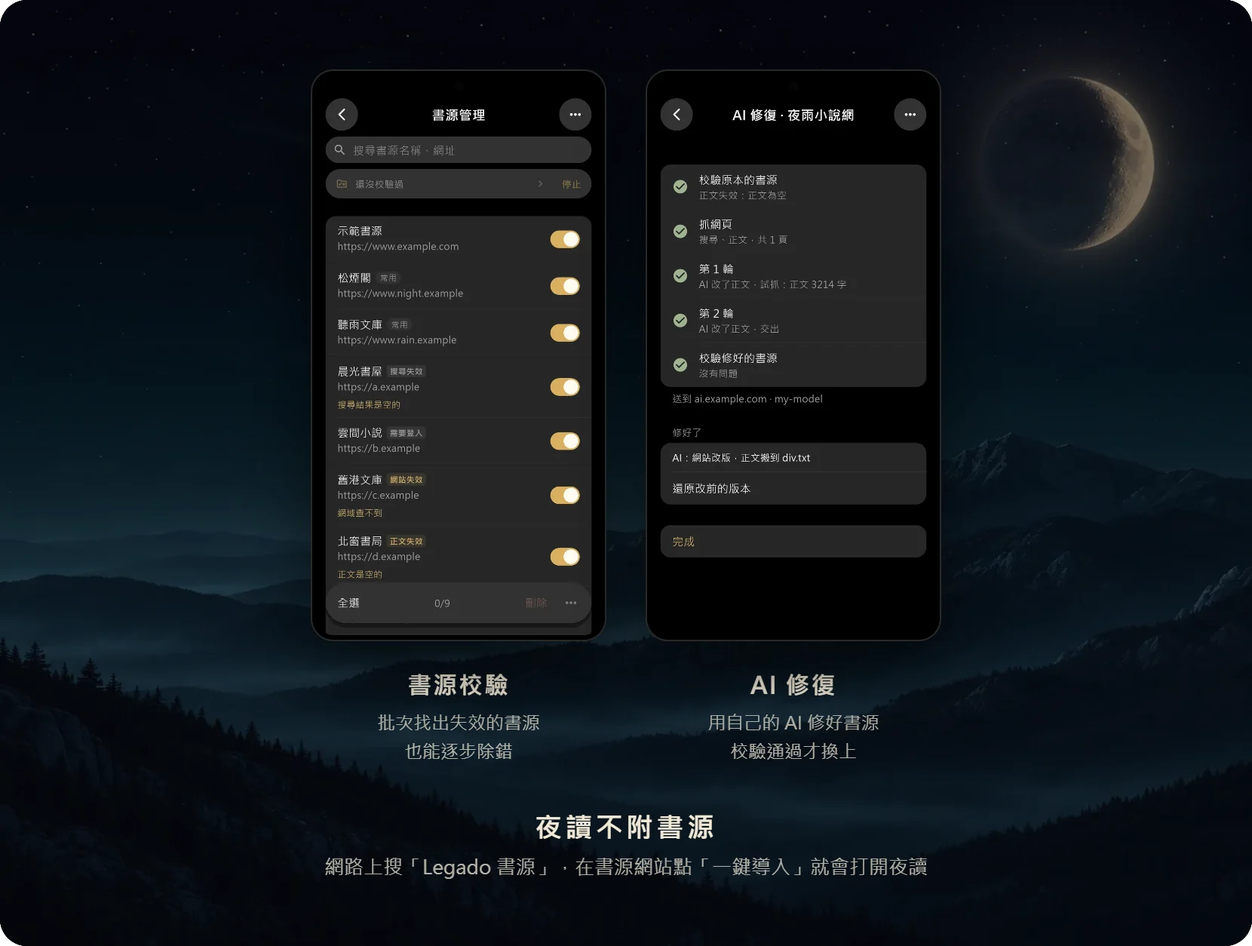
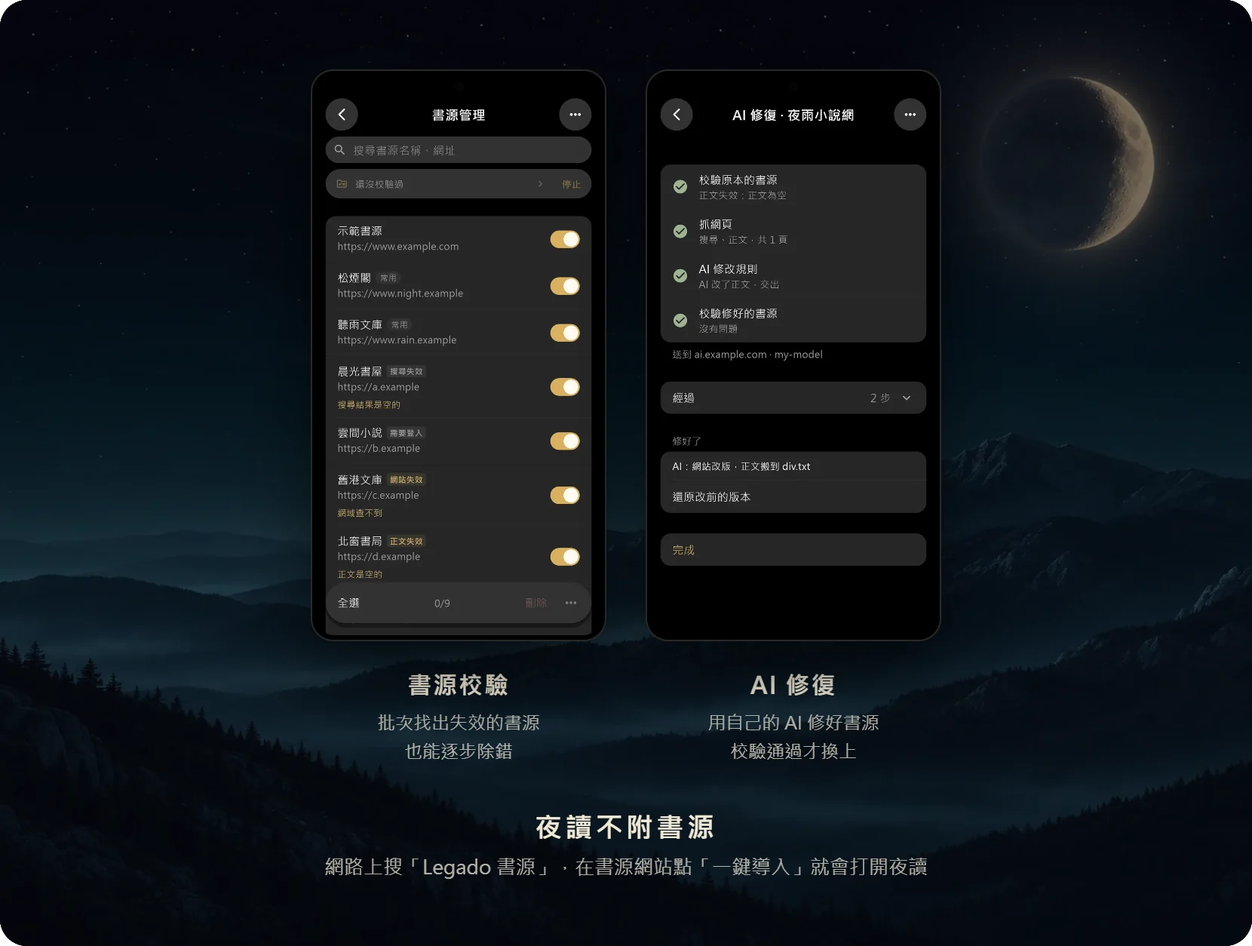
feat(ai): 經過卡片補測試、規格與 ADR，重拍修復頁的網站截圖
- 修復頁測試：展開「經過」後清單變長、結果捲出測試視窗，結果改在展開前看。
- 補單一書源 AI 修復的通知內文測試：校驗時寫段名、AI 那一輪寫「AI 回覆中…」，
  不寫「第 N 輪」（紀錄照寫輪次）。
- docs/design/screens.md：AI 修書源改成固定四段＋經過（記下 2026-11-16 選丁、
  否決甲乙丙），剪貼簿照舊一步一列；整批「正在修」副標、AI 找書進行中／暫停／
  結果、兩種通知內文照現在的樣子寫。
- ADR 0054「一次修一個」改寫，考慮過的做法加「一輪一列」；ADR 0060 背景工作與
  過去的找書照改（報告沒有經過：每一輪沒存進資料庫）。
- 網站 ai-repair 截圖與 README 書源卡片重拍（原本拍到「第 1 輪」「第 2 輪」）。
- 交接做完，刪掉 HANDOFF.md。

驗證：tool/flutter_test.sh 跑 ai_find_page、ai_repair_page、source_repair_page、
repair_runs、ai_find_session、ai_repair_session、source_repair_batch、
ai_find_report_skeleton、background_work、ai_find_sync 共十個檔，全過。

Changed region(s): [[0.5223, 0.2799, 0.7373, 0.622]]

diff --git a/test/features/source_manager/repair_runs_test.dart b/test/features/source_manager/repair_runs_test.dart
@@ -171,6 +171,65 @@ void main() {
     expect(run.status.text, '正在結束…');
   });
 
+  test('a single repair notification says what is being done, not which '
+      'round', () async {
+    final checking = Completer<void>();
+    final answering = Completer<void>();
+    final session = AiRepairSession(
+      source: _s('one'),
+      service: _service,
+      check: (source, _) async {
+        await checking.future;
+        return SourceCheckIsolateResult(
+          stage: 'content',
+          message: '正文為空',
+          isHealthy: false,
+          updatedSourceJson: source.toJson(),
+          logs: const [],
+        );
+      },
+      probe: (_, _, {start}) async =>
+          const SourceProbeReport(logs: [], requests: []),
+      ask: (_, _) async {
+        await answering.future;
+        return fakeAiReply(
+          jsonEncode({
+            'action': 'give_up',
+            'why': 'site_gone',
+            'reason': '網站關了',
+          }),
+        );
+      },
+      secrets: (_) async => const {},
+    );
+    final run = SingleRepairRun(
+      session,
+      progress: _MemoryFile(),
+      work: work,
+      navigator: () => null,
+    );
+    expect(run.status.title, 'AI 修復 · one');
+    expect(run.status.text, '準備中…');
+
+    final done = run.run();
+    for (var i = 0; i < 20 && session.job.steps.isEmpty; i++) {
+      await _flush();
+    }
+    expect(run.status.text, '校驗原本的書源');
+
+    checking.complete();
+    for (var i = 0; i < 20 && session.job.steps.length < 3; i++) {
+      await _flush();
+    }
+    expect(session.job.steps.last.title, '第 1 輪', reason: '紀錄照寫輪次');
+    expect(run.status.text, 'AI 回覆中…');
+
+    answering.complete();
+    await done;
+    run.disposeWork();
+    run.dispose();
+  });
+
   test(
     'a single repair records a confirmed unstable site as removable',
     () async {

diff --git a/test/features/source_manager/ai_repair_page_test.dart b/test/features/source_manager/ai_repair_page_test.dart
@@ -103,14 +103,16 @@ void main() {
     expect(find.text('校驗修好的書源'), findsOneWidget);
     expect(find.text('1 步'), findsOneWidget);
     expect(find.text('AI 改了正文，交出'), findsOneWidget);
-    await tester.tap(find.text('經過'));
-    await tester.pump();
-    expect(find.text('AI 改了正文，交出'), findsNWidgets(2));
     expect(find.text('修好了'), findsOneWidget);
     expect(find.text('AI：正文在 div.txt'), findsOneWidget);
     expect(find.text('還原改前的版本'), findsOneWidget);
     expect(find.text('完成'), findsOneWidget);
     expect(find.text('結束'), findsNothing);
+
+    // 展開後一步一列，清單變長、下面的結果捲出畫面，所以結果先看。
+    await tester.tap(find.text('經過'));
+    await tester.pump();
+    expect(find.text('AI 改了正文，交出'), findsNWidgets(2));
   });
 
   testWidgets('the clipboard way waits for a paste on the same page', (

diff --git a/docs/design/screens.md b/docs/design/screens.md
@@ -64,13 +64,17 @@
 
 ## AI 修書源（ADR 0054）
 
-使用者 2026-11-09 在三個候選裡選了「推一頁、步驟一列一列」；否決置中進度框（幾分鐘不能操作、看不到前幾輪）與背景跑加膠囊（修的時候可能正在編輯或校驗同一個書源）。頁面關了照修，進度在通知欄（見下面「背景工作」）。
+使用者 2026-11-09 在三個候選裡選了「推一頁」；否決置中進度框（幾分鐘不能操作、看不到前幾輪）與背景跑加膠囊（修的時候可能正在編輯或校驗同一個書源）。頁面關了照修，進度在通知欄（見下面「背景工作」）。
+
+進行中只寫現在在做的事，做過的步收在預設收起的「經過」卡片（使用者 2026-11-16 在候選圖與動畫上選了丁，AI 找書同一套）：原本「第 N 輪」一列一列，頁面一直加長，跑的時候用不到那麼多。否決甲（只留一列現在在做的事，看不到前幾步）、乙（甲加累計數字：搜了幾次、看過幾本）、丙（只留最近三步，三列一直在跳）。
+
+- **經過**：一張卡片，收起時一列「經過」，右邊「N 步」與上下箭頭（同目錄的分卷列）；點了展開，照先後一步一列，圖示同修復頁，標題是那一步做的事（同下面「AI 修改規則」的副標，最多三行），不寫「第 N 輪」；重新開始的那步標題「重新開始」、副標是原因。現在在做的那一步不放進來。每次進頁面都是收起的，不記。還沒有做完的步時不畫這張。
 
 - **入口**：長按選單在「除錯書源」下面加「AI 修復」，下面是「還原 AI 修改前」（沒有改前版本時灰掉）；多選工具列「⋯」加「AI 修復選中」（選一個時是這一頁，選幾個時是「修復異常書源」那一頁）；頁首「更多」的「校驗與修復」裡，「清除校驗標記」下面是「修復異常書源」（有帶「異常」標記的書源才能按）與「AI 服務設定」（快速入口）。書源編輯不放（編輯中的改動還沒存）。
 - **沒設定 AI 服務**：提示框「AI 修復「書源名」」，訊息「還沒設定 AI 服務。」，按鈕直排「設定 AI 服務｜複製給 AI｜取消」；一批時沒有「複製給 AI」。
-- **修復頁**：頁首「AI 修復 · 書源名」，右側「⋯」：AI 服務設定、複製摘要、分享完整紀錄（兩份的內容見 ADR 0054「修復紀錄」；還沒開始時灰掉）。一張分組卡片，一步一列：圖示＋標題＋一行副標。圖示：做完是綠色勾、做著是轉圈、失敗是紅色叉、還沒開始是空心圓。步驟依序是「校驗原本的書源」（副標是校驗結果）、「抓網頁」（副標「搜尋、詳情、目錄、正文，共 N 頁」）、「第 N 輪」（副標「AI 改了哪些規則，試抓：結果」，從中間開始時寫「從 toc 開始試抓」，抓到正文時接「，交出」；做著時「…試抓中…」；看網頁時「看網頁 網址」；不連網站的指令寫「讀頁 N」「在頁 N 找「字」」「解析頁 N（toc）」「跑程式」）、「校驗修好的書源」。一件最多 36 輪，做到校驗通過、AI 說修不好、按結束或沒收斂（ADR 0054）。設定成重跑時多一列「重新開始（第 N 次）」，副標是上一次為什麼沒跑完，下面的輪寫「第 2 次 · 第 1 輪」。卡片下面一行小字「送到 服務的主機名 · 模型」。
-- **結果**：卡片下面一段，頁首寫「修好了」或「沒修好，書源沒有改」，內容是 AI 最後的說明；修好時下面一列「還原改前的版本」。最後一張卡片：做著時兩列「暫停」與紅字「結束」（按了變「正在暫停…」「正在結束…」）；暫停中是「繼續」（強調色）與「結束」，步驟最後多一列暫停圖示「已暫停」、副標「按「繼續」從頭重修這個書源」（使用者 2026-11-15 選從這個書源重修，否決接到同一輪）；做完是強調色「完成」（關頁）。返回只關頁、照修；再按「AI 修復」推回同一頁。暫停或結束時修到一半的不改書源。
-- **複製給 AI**（剪貼簿）：同一頁，步驟是「校驗原本的書源」「抓網頁」「已複製給 AI」，下面一張卡片是多行輸入框（提示「貼上 AI 回的書源 JSON」）與一列「校驗並套用」；貼的內容可以夾在說明文字或 ``` 裡，取第一個完整的 JSON 物件。按了接著「校驗修好的書源」與結果，同上。要使用者來回貼，不進背景：最後一張卡片只有「結束」，返回等於結束。
+- **修復頁**：頁首「AI 修復 · 書源名」，右側「⋯」：AI 服務設定、複製摘要、分享完整紀錄（兩份的內容見 ADR 0054「修復紀錄」；還沒開始時灰掉）。一張分組卡片，固定四段一段一列：圖示＋標題＋一行副標。圖示：做完是綠色勾、做著是轉圈、失敗是紅色叉、還沒開始是空心圓（還沒輪到的段也列著）。四段依序是「校驗原本的書源」（副標是校驗結果）、「抓網頁」（副標「搜尋、詳情、目錄、正文，共 N 頁」）、「AI 修改規則」、「校驗修好的書源」。「AI 修改規則」的副標是 AI 最新一步在做的事：回覆中「AI 回覆中…」；試抓「AI 改了哪些規則，試抓：結果」，從中間開始時寫「從 toc 開始試抓」，抓到正文時接「，交出」，做著時「…試抓中…」；看網頁時「看網頁 網址」；不連網站的指令寫「讀頁 N」「在頁 N 找「字」」「解析頁 N（toc）」「跑程式」；設定成重跑時「重新開始：上一次為什麼沒跑完」。AI 說修不好、出錯、按了暫停或結束時這段畫紅叉，後面的段留空心圓（同整批修復）。AI 做過的步收在卡片下面的「經過」（見上）。一件最多 36 輪，做到校驗通過、AI 說修不好、按結束或沒收斂（ADR 0054）；輪次只寫在修復紀錄（「第 3 輪」「第 2 次 · 第 1 輪」），頁面不寫。卡片下面一行小字「送到 服務的主機名 · 模型」。
+- **結果**：卡片下面一段，頁首寫「修好了」或「沒修好，書源沒有改」，內容是 AI 最後的說明；修好時下面一列「還原改前的版本」。最後一張卡片：做著時兩列「暫停」與紅字「結束」（按了變「正在暫停…」「正在結束…」）；暫停中是「繼續」（強調色）與「結束」，四段下面多一列暫停圖示「已暫停」、副標「按「繼續」從頭重修這個書源」（使用者 2026-11-15 選從這個書源重修，否決接到同一輪）；做完是強調色「完成」（關頁）。返回只關頁、照修；再按「AI 修復」推回同一頁。暫停或結束時修到一半的不改書源。
+- **複製給 AI**（剪貼簿）：同一頁，照做過的步一步一列（沒有固定四段與經過）：「校驗原本的書源」「抓網頁」「已複製給 AI」，下面一張卡片是多行輸入框（提示「貼上 AI 回的書源 JSON」）與一列「校驗並套用」；貼的內容可以夾在說明文字或 ``` 裡，取第一個完整的 JSON 物件。按了接著「校驗修好的書源」與結果，同上。要使用者來回貼，不進背景：最後一張卡片只有「結束」，返回等於結束。
 - **AI 服務**（頁首「AI 服務」，從「我的」、書源管理的「校驗與修復」與修復頁的「⋯」進）：分組卡片由上而下：「常用服務」（右邊是目前網址對到的服務，自己填的寫「自己填網址」；點了跳出 OpenCode Go、DeepSeek、OpenRouter、OpenAI、Ollama（本機）與「自己填網址」，OpenCode Go 的副標是「deepseek-v4.1-flash，夜讀實測過」；選了填好服務網址，有實測過的模型一併填上，沒有的模型清空）、輸入框「服務網址」（提示 `https://api.openai.com/v1`）、「金鑰」（遮住，右側顯示／隱藏）、「模型」（右邊是目前的模型，沒選時寫「選擇」；點了向服務要模型清單（`/models`），讀取時寫「讀取中…」，跳出清單，夜讀實測過的那個副標「夜讀實測過」，最下面「自己輸入模型名稱」開輸入框；列不出清單時從底部提示原因、直接開輸入框）、「思考程度」（點了跳出選單「服務預設｜低｜中｜高」，勾目前的；使用者 2026-11-10 要的）、「同時修幾個網站」（點了跳出 1、2、3、4、6、8 個，3 個副標「預設」；整批修復同時交給 AI 修幾個網站；使用者 2026-11-14 選的方案 B）；卡片下的說明寫會送什麼、不送什麼（與 `PRIVACY.md` 同一句）。下一張卡片「測試連線」：送一句極短的話，成功從底部提示「連得上：模型名」，失敗提示原因。輸入框離開頁面就存。
 
 ## 修復異常書源（ADR 0054）
@@ -81,7 +85,7 @@
 - **開始**：按了直接推修復頁開始修，不問用量上限（使用者 2026-11-14：一律不限量）。沒設定 AI 服務時跳提示框「設定 AI 服務｜取消」。
 - **頁面**：頁首是同一個標題，右側「⋯」：AI 服務設定、分享這批的全部紀錄（打包成一個 ZIP 用系統分享傳出去，內容見 ADR 0054「整批的紀錄」；還沒有任何結果時灰掉）。第一張卡片四列：「重新校驗」「檢查網站」「換網址」「AI 修」，圖示同修復頁；做著時副標是進度（「第 12／199 個」「7／24 個網站」），做完是結果（「沿用校驗結果 120 個，沒問題 30 個，不用修 2 個，AI 之前修不好 3 個」「網站不在了 29 個」「換好 11 個」「AI 修好 14 個，套用到同網站 4 個」，0 個的不寫，全是 0 寫「沒有」），最後一列「AI 用量」右邊是用了多少，例如「51.2 萬 token」。卡片下面一行小字「送到 服務的主機名 · 模型」。
 - **結果**：依序幾張分組卡片（使用者 2026-11-13 定的）：
-  - 「正在修 · N」：AI 修著的網站，圖示轉圈，副標是最新一步，例如「第 3 輪：AI 改了搜尋，試抓中…」。
+  - 「正在修 · N」：AI 修著的網站，圖示轉圈，副標是最新一步在做的事（同修復頁「AI 修改規則」的副標，固定段寫「段名：結果」），例如「AI 改了搜尋，試抓中…」，不寫輪次。
   - 「修好了 · N」：副標是怎麼修好的（AI 最後的說明、「換成 新網址」或「套用「書源名」修好的規則」）。同網站的重複書源回到書源管理時自動合併（ADR 0062），這裡不另外合併。
   - 「網站不在了 · N」：副標是原因，最後一列紅字「刪除這 N 個」，先確認；卡片下面一行「已標「網站失效」」刪了之後整張收成一列「網站不在了的 N 個已刪除」，同一批離開再回來也是；修到一半就刪了、之後才判定網站不在了的照樣列在卡片裡，按鈕只算還沒刪的，上面多一列「已刪除 N 個」。
   - 「沒修好 · N」：副標是原因。
@@ -99,9 +103,9 @@
 - **沒設定 AI 服務**：按「開始找書」時提示框「AI 找書」，訊息「還沒設定 AI 服務。」，按鈕直排「設定 AI 服務｜取消」。
 - **開始前**：頁首「AI 找書」，右側「⋯」：AI 服務設定、複製摘要、分享完整紀錄（還沒開始時後兩項灰掉）。第一張卡片是多行輸入框（4 到 8 行，提示「想看什麼樣的書」）；下一張頁首「深度」，裡面一條三段切換「快速｜一般｜深入」，預設一般、之後停在上次選的；卡片下面一行小字寫選中的那一種每本查到哪裡，切換時跟著換（快速「從搜尋結果的書名、字數與簡介開頭挑，不必每本都點開看。」、一般「每本都去看詳情（簡介、分類、字數）再推薦。」、深入「每本都去看詳情，小說再讀第一章與最後一章，看是不是太監，讀不到的寫明原因；漫畫、有聲書照一般。」；使用者 2026-11-15 在候選圖上選，否決三種一次列出、放在卡片裡切換下面）；再下一張兩列：「本數」右邊寫「10 本」，點了跳提示框「要找幾本」，一個只收數字的輸入框，1 到 30 以外的不收、輸入框下面紅字「請輸入 1 到 30」，預設 10、之後停在上次開始找書時的本數；「不想看的」右邊只寫幾項（「4 項」，沒有時「沒有」，不列項目），點了進清單頁；最後一張一列強調色「開始找書」（沒打字時灰掉；別的背景工作在跑時也灰掉，ADR 0058），卡片下面一行小字「送到 服務的主機名 · 模型」。
 - **不想看的**（使用者 2026-11-15 在候選圖上選，否決開始前的頁面直接放一張輸入框卡片）：頁首「不想看的」；一張卡片一項一列，點了跳提示框修改、往左滑「刪除」，最後一列強調色「新增」；提示框一個輸入框（提示「例如：女頻、後宮」），頓號、逗號、分號、斜線或換行分開的算幾項，已有的不重複加，改成空的就是刪掉。卡片下面不放說明文字（使用者 2026-11-15 要的）。改了就存，跟著設定同步。
-- **進行中**：第一張卡片：第一列是描述（標題）與「深度：一般」（副標）；接著一輪一列「第 N 輪」，圖示同修復頁，副標是這一輪呼叫的工具（「看書架與閱讀紀錄」「搜尋「穿越 獵魔」小說，找到 47 本」「看詳情：書名、書名」「讀《書名》第 1 章」「看發現頁：書源名 排行」），做著時句尾「…」；最後一列「AI 用量」，右邊「8.4 萬 token」。卡片下面一行小字「送到 服務的主機名 · 模型」。下一張卡片兩列「暫停」與紅字「結束」（按了變「正在暫停…」「正在結束…」；使用者 2026-11-15 在候選圖上選了甲：同一張卡兩列，否決「結束」單獨一張卡）。
-- **暫停中**：輪次最後多一列暫停圖示「已暫停」、副標「按「繼續」從第 N 輪接著問」（做到一半的那一輪不留）；最後一張卡片「繼續」（強調色，別的背景工作在跑時灰掉）與「結束」。按繼續照現在的 AI 服務設定接著問，沒設定時跳「還沒設定 AI 服務」那個提示框；按結束存成過去的找書，原因寫「已結束」。
-- **結果**：第一張卡片一列：描述與副標「深度：一般 · 9 輪 · 21.3 萬 token」。下一張頁首「推薦 · N」，每本一列：左邊封面（同搜尋結果卡的大小與預設封面），右邊書名、「作者 · 字數 · 分類」、推薦理由（不截斷）；點了推書籍詳情（照找到的書源），從那裡加入書架。零本時不畫這張。再下一張頁首「AI 的說明」，是 AI 交出時寫的一段。最後一張一列強調色「完成」（關頁）。結束、服務出錯或沒跑完時沒有推薦，那張換成頁首「沒有找完」的卡片，一列寫原因（輪數用完時給不給 AI 看過的書，量過再定，ADR 0060）。
+- **進行中**：第一張卡片三列：描述（標題）與「深度：一般」（副標）；現在在做的事，轉圈圖示，標題是這一輪呼叫的工具（「看書架與閱讀紀錄」「搜尋「穿越 獵魔」小說，找到 47 本」「看詳情：書名、書名」「讀《書名》第 1 章」「看發現頁：書源名 排行」，同一輪幾個用「；」接起來，做著時句尾「…」，還沒叫工具時「想下一步…」，最多三行），出錯時圖示是紅叉；「AI 用量」，右邊「8.4 萬 token」。卡片下面一行小字「送到 服務的主機名 · 模型」。問過的輪收在下一張「經過」（同 AI 修書源，一輪一列、標題是那一輪呼叫的工具）。再下一張卡片兩列「暫停」與紅字「結束」（按了變「正在暫停…」「正在結束…」；使用者 2026-11-15 在候選圖上選了甲：同一張卡兩列，否決「結束」單獨一張卡）。
+- **暫停中**：現在在做的事那一列換成暫停圖示「已暫停」、副標「按「繼續」接著問」，問過的輪都在經過裡（做到一半的那一輪不留）；最後一張卡片「繼續」（強調色，別的背景工作在跑時灰掉）與「結束」。按繼續照現在的 AI 服務設定接著問，沒設定時跳「還沒設定 AI 服務」那個提示框；按結束存成過去的找書，原因寫「已結束」。
+- **結果**：第一張卡片一列：描述與副標「深度：一般 · 21.3 萬 token」（輪數照記在過去的找書與紀錄裡，頁面不寫）。過去的找書沒存每一輪，報告頁沒有經過；剛做完、還在這一頁時也不畫。下一張頁首「推薦 · N」，每本一列：左邊封面（同搜尋結果卡的大小與預設封面），右邊書名、「作者 · 字數 · 分類」、推薦理由（不截斷）；點了推書籍詳情（照找到的書源），從那裡加入書架。零本時不畫這張。再下一張頁首「AI 的說明」，是 AI 交出時寫的一段。最後一張一列強調色「完成」（關頁）。結束、服務出錯或沒跑完時沒有推薦，那張換成頁首「沒有找完」的卡片，一列寫原因（輪數用完時給不給 AI 看過的書，量過再定，ADR 0060）。
 - 返回只關頁、照跑；做完還沒看過結果的，下次按 ✦ 推回這一頁，看過、離開後下次按是新的一次。
 
 ## 背景工作（ADR 0058）
@@ -111,9 +115,9 @@
 - **一次一件**：有一件在跑時，書源管理的「校驗所有書源」、多選的「校驗」「AI 修復選中」、長按的「AI 修復」、「修復異常書源」與 AI 找書的「開始找書」是灰的；推回正在跑的那一件的入口照樣能按（同一個書源的「AI 修復」、正在修的那一批、搜尋頁的 ✦）。登入完的自動校驗在跑時「AI 修復」也是灰的。暫停中的不佔位置，別的工作可以開始。AI 找書的 ✦ 推回暫停的那一次；修書源與校驗開始新的一件時，暫停的那件就結束（使用者 2026-11-15 選），同一個書源、同一批的入口推回暫停的那一頁。
 - **通知**：放在通知欄、不跳出來、不出聲，跑的時候滑不掉；做完就收掉，結果在頁面上。使用者 2026-11-11 選了候選甲：
   - 修復異常書源：標題是頁首那個標題，內文「段名，進度」（「重新校驗，第 12／199 個」「AI 修，7／24 個網站」，段名是重新校驗、檢查網站、換網址、AI 修），進度條四段各佔 25 %。
-  - AI 修復單一書源：標題「AI 修復 · 書源名」，內文是最新一步的標題，沒有進度條（輪數事先不知道）。
+  - AI 修復單一書源：標題「AI 修復 · 書源名」，內文是最新一步在做的事，同整批修復「正在修」的副標（「校驗原本的書源」「AI 回覆中…」「AI 改了搜尋，試抓中…」），不寫輪次；沒有進度條（輪數事先不知道）。
   - 校驗書源：標題「校驗書源」，內文「第 12／199 個」，進度條照做完幾個走。
-  - AI 找書：標題「AI 找書」，內文是最新一輪的副標，沒有進度條（同 AI 修復單一書源）。
+  - AI 找書：標題「AI 找書」，內文是找書頁現在在做的事那一列，沒有進度條（同 AI 修復單一書源）。
   - 右邊兩顆「暫停」「結束」，按了內文變「正在暫停…」「正在結束…」、按鈕拿掉；暫停好、結束好就收掉通知。點通知推回那一頁（校驗是書源管理），已經在那一頁就不動。
 
 ## 我的與設定頁

diff --git a/docs/adr/0060-ai-finds-books-in-the-users-sources.md b/docs/adr/0060-ai-finds-books-in-the-users-sources.md
@@ -25,8 +25,8 @@
 - **找書的結果自己一格**：修書源做完、結果沒看過時不讓下一件蓋掉（ADR 0058）；找書的結果存成「過去的找書」，沒看過也不擋修書源與校驗，一次一件照背景工作的位置。
 - **AI 服務設定與 AI 修書源共用網址與金鑰，模型各選**（使用者 2026-11-13 選）：設定頁多一欄「找書的模型」，留空就用修書源的模型；書源管理與搜尋頁都能進這一頁，頁首從「AI 修書源」改成「AI 服務」（使用者 2026-11-13 同意），入口的「AI 修書源設定」跟著改名，卡片下的說明分兩段寫修書源、找書各送什麼。網址、金鑰與兩個模型還是一筆、一起同步（ADR 0054 的理由：分開比新舊會拼錯）。
 - **入口在搜尋頁，一直都在**（使用者 2026-11-13 選，不只設定好 AI 服務的人看得到）：沒設定 AI 服務時照 AI 修復跳「還沒設定 AI 服務」、帶去設定頁；沒有剪貼簿：要 AI 一來一回用工具，貼來貼去做不到。長什麼樣做的時候畫候選圖選。
-- **第四件背景工作**（ADR 0058）：有一頁看 AI 每一步在做什麼，返回或離開夜讀照跑；和修書源、校驗共用一次一件的位置（都在搶書源 isolate），一件在跑時其他幾件的入口灰掉。通知欄標題「AI 找書」、內文是最新一步、不畫進度條（輪數事先不知道，同單一書源的 AI 修復），點了回那一頁，做完收掉；從搜尋頁再進來是同一次找書。可以暫停（ADR 0058「暫停與結束」）：每一輪開頭存一次對話與工具的狀態，暫停後按繼續從存的那一輪接著問；按結束、找完或沒找完都存成「過去的找書」，暫停不算結束。搜尋頁一般的搜尋照常能用，和找書的搜尋共用書源 isolate。
-- **結果與每一次找書都留著**：每本列書名、推薦理由、字數與分類，點了進書籍詳情（照找到的書源）或加入書架。搜尋頁有「過去的找書」清單，列當時的描述（不寫日期，使用者 2026-11-15 要的），點了看那次的報告（結果、AI 的說明、輪數與用量），可刪除；每一次是一筆，進備份與全面同步（ADR 0039、0046：新的贏、刪除也同步）。
+- **第四件背景工作**（ADR 0058）：有一頁看 AI 現在在做什麼，問過的輪收在「經過」（同 AI 修復，ADR 0054），返回或離開夜讀照跑；和修書源、校驗共用一次一件的位置（都在搶書源 isolate），一件在跑時其他幾件的入口灰掉。通知欄標題「AI 找書」、內文是最新一步、不畫進度條（輪數事先不知道，同單一書源的 AI 修復），點了回那一頁，做完收掉；從搜尋頁再進來是同一次找書。可以暫停（ADR 0058「暫停與結束」）：每一輪開頭存一次對話與工具的狀態，暫停後按繼續從存的那一輪接著問；按結束、找完或沒找完都存成「過去的找書」，暫停不算結束。搜尋頁一般的搜尋照常能用，和找書的搜尋共用書源 isolate。
+- **結果與每一次找書都留著**：每本列書名、推薦理由、字數與分類，點了進書籍詳情（照找到的書源）或加入書架。搜尋頁有「過去的找書」清單，列當時的描述（不寫日期，使用者 2026-11-15 要的），點了看那次的報告（結果、AI 的說明與用量；每一輪沒存，報告沒有經過；輪數照記、頁面不寫，量回合數看紀錄），可刪除；每一次是一筆，進備份與全面同步（ADR 0039、0046：新的贏、刪除也同步）。
 - **本數由使用者輸入**（使用者 2026-11-15 要的）：開始前的頁面一列「本數」，輸入 1 到 30，預設 10；送給 AI，交出超過就退回、要它挑最合的幾本，不夠時有幾本交幾本並說明。記住上次的，同深度只存這台手機、不同步。上限 30：交出時每本都要照深度查完，本數越多越久。
 - **「不想看的」清單**（使用者 2026-11-15 提出：找到的書常有很討厭的流派，要一份記住的清單過濾掉，例如女頻）：開始前的頁面一列進清單頁，一項一筆；每次找書把清單附在描述後面送給 AI，AI 看故事判斷那幾類不推薦（可以搜、可以看），這次的描述明確要其中一類時照描述。清單是使用者的口味，跟著設定同步、進備份；找書開始時的那份存進暫停的存檔，之後改清單不影響在跑的那次。不在夜讀這邊用字比對濾掉：「女頻」這類簡介與分類常不照字寫，同乙女向、成人向交給 AI 從故事判斷。
 - **紀錄照 AI 修復**：頁面「⋯」有「複製摘要」與「分享完整紀錄」，內容與存放同 ADR 0054「修復紀錄」，是量回合數的依據。

diff --git a/docs/adr/0054-ai-repairs-sources-with-the-users-own-key.md b/docs/adr/0054-ai-repairs-sources-with-the-users-own-key.md
@@ -42,7 +42,7 @@
   - 完整紀錄：同樣的段落，加上照原樣送給 AI 的每一句話（對話只往後接，每句寫一次就是每輪送出的全部）、AI 回的全文、每個請求網站回的整頁原文（照編碼解開、不精簡，最多 2 MB）、校驗的完整診斷。一面做一面寫進崩潰日誌旁的 `ai-repair/` 資料夾，不留在記憶體（整批修復一次開幾十段）；留最近 100 份、合計 50 MB 以內，用系統分享傳出去。
 - **整批的紀錄**：修復異常書源頁的「分享這批的全部紀錄」把一批打包成一個 ZIP：每個書源的結果、說明、用量與網站檢查（一份給人讀、一份 JSON 給評估工具），加上每個交給 AI 的書源的完整紀錄。完整紀錄超過上面的份數或大小上限、已經被清掉的，寫明清掉了。
 - **沒有金鑰時用剪貼簿**：把提示詞、書源 JSON、校驗結果與抓到的網頁複製下來，使用者貼給任何 AI，再把 AI 回的書源 JSON 貼回夜讀；之後一樣校驗、通過才套用、留改前版本。剪貼簿只修單一書源。
-- **一次修一個，或整批修**：一個書源用修復頁，一步一列。一批（書源管理的「修復異常書源」修所有帶「異常」標記的，多選的「AI 修復選中」修選的）走整批修復，每段都只存校驗通過的、留改前版本：
+- **一次修一個，或整批修**：一個書源用修復頁，固定四段，AI 最新一步寫在「AI 修改規則」，做過的步收在預設收起的「經過」（使用者 2026-11-16 選，畫面見 `docs/design/screens.md`「AI 修書源」）。一批（書源管理的「修復異常書源」修所有帶「異常」標記的，多選的「AI 修復選中」修選的）走整批修復，每段都只存校驗通過的、留改前版本：
   1. 重新校驗：標記可能是舊版本或網站一時的狀況留下的。沒問題的不修；需要登入、在網頁驗證、只能下載、不支援的類型不修。這次校驗的完整結果（含診斷）留給交給 AI 的那一段，修復頁的「校驗原本的書源」直接沿用、不再校驗（使用者 2026-11-13）；沿用 24 小時內結果的沒有診斷，修復頁照常校驗。兩種不重新校驗（使用者 2026-11-11 選的：修到一半停了再按一次，又把上一輪校驗過的全部重跑）：
      - 照書源上的標記就定案的：帶「AI 修不好」的跳過、帶「網站失效」的直接列進網站不在了（原因是錯誤註解，不再檢查網站）、需要登入這類不修的照標記不修。網站自己恢復了，要等下次「校驗所有書源」才發現。
      - 24 小時內校驗過的沿用那次的標記與錯誤註解：最常見的是剛按完「校驗所有書源」就修。書源記上次校驗的時間（`lastCheckTime`），只在這台手機、不進書源 JSON：書源被匯入、同步、還原或編輯蓋過時歸零，就照常重新校驗。
@@ -80,6 +80,7 @@
 - **固定的試抓 6 次、看網頁 5 次、回覆 14 次**：使用者 2026-11-12 否決，要 AI 能查到底。
 - **每個網站 30 萬 token 的上限**：程式註解記著「實測修好的網站多半在 15 萬以內，超過的多半修不好」。每輪送完整對話時，含打中快取的 30 萬大約 6、7 輪就用完，比次數上限還早停；也考慮過只算沒打中快取的部分，使用者 2026-11-12 選不設，之後看摘要裡每輪的用量再談。
 - **工具與回合不設次數、讀不懂與空白的回覆一直接著問**：使用者 2026-11-12 先選了這個（要 AI 能查到底；沒發生過一直回壞內容的情況，不為沒遇過的事設防），同一天改成照 `agent-harness` 技能：修復沒有用量上限，沒有回合上限時一件打轉就一直燒下去，也沒有「每件都有結果」的保證。36 輪比原本的 14 次回覆寬得多。
+- **修復頁一輪一列「第 N 輪」**：2026-11-09 到 11-16 的做法，看得到每一步，但頁面一直加長，跑的時候用不到那麼多（使用者 2026-11-16）。改成經過卡片時否決的三個候選見 `docs/design/screens.md`「AI 修書源」。
 - **修復紀錄只做摘要**：完整的證據還是拿不到，AI 送錯請求、網頁的關鍵在後半段這類問題查不出來。
 - **修復紀錄只做檔案**：要快速貼一段到聊天討論時不方便。
 
